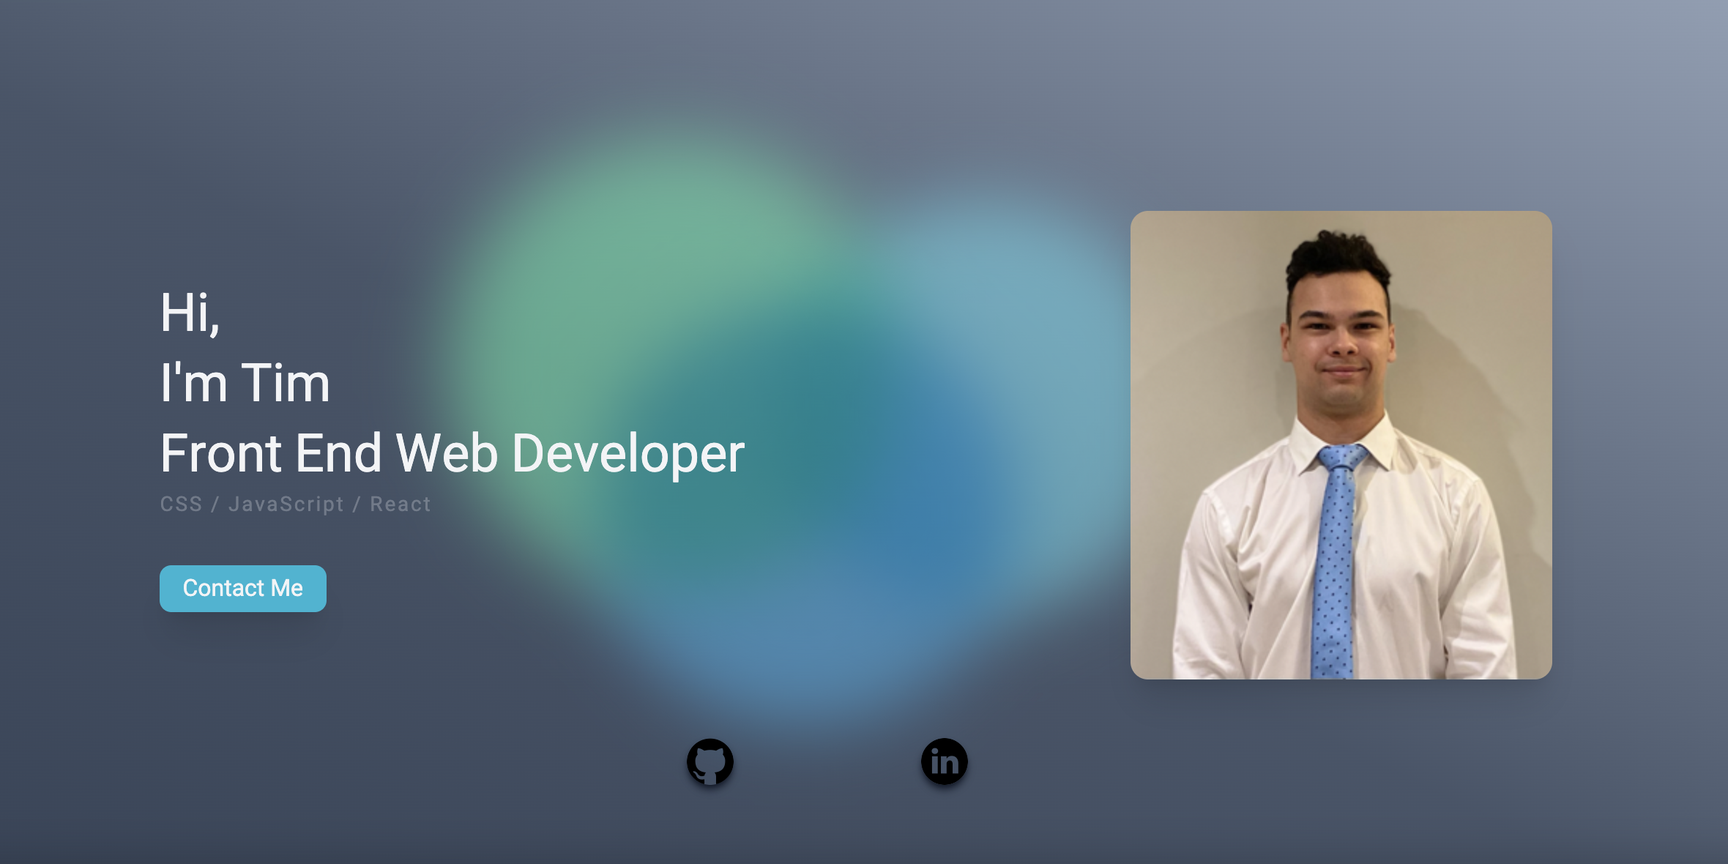
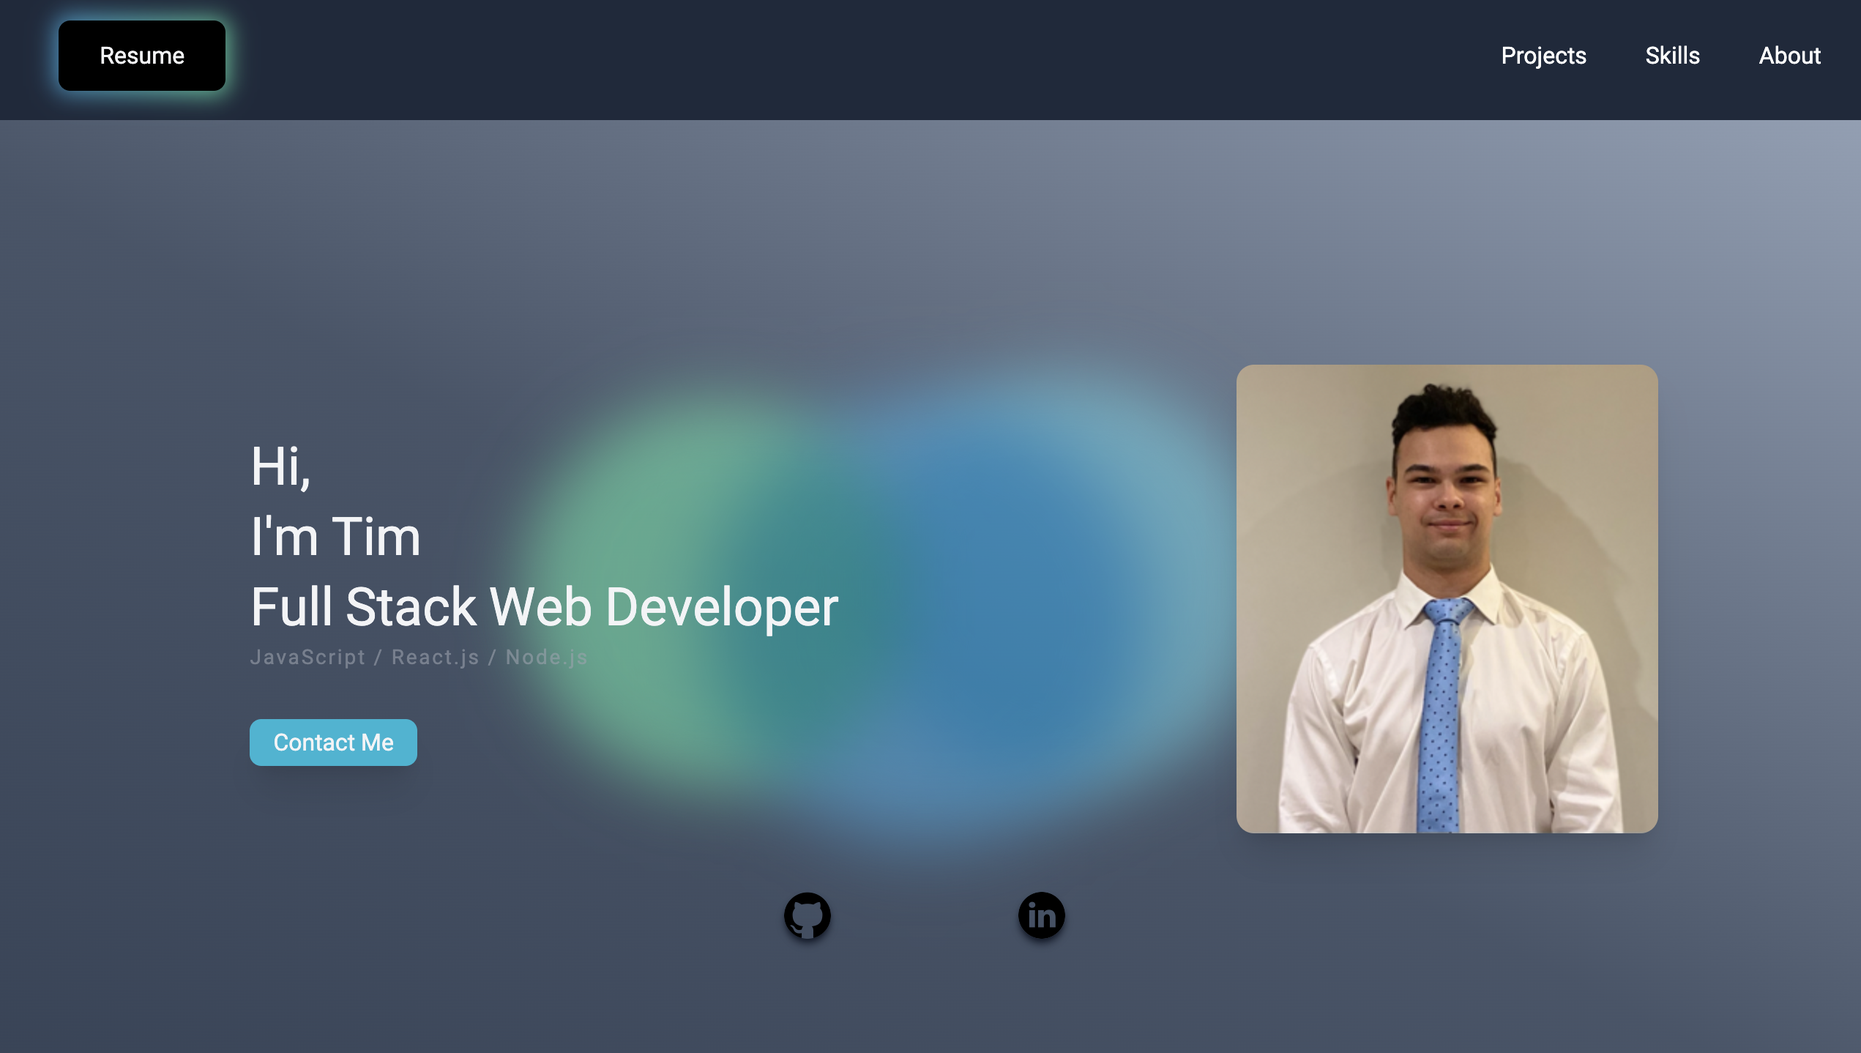
Took out About section, edited projects layout

diff --git a/portfolio/src/Pages/sections/Projects.jsx b/portfolio/src/Pages/sections/Projects.jsx
@@ -5,106 +5,130 @@ const Projects = () => {
 
     return (
         // Projects section start
-        <div id="projects" className='min-h-screen xs:py-36 lg:py-40 bg-gradient-to-tl from-slate-500 via-slate-600 to-slate-700 text-gray-900 flex items-center justify-center relative sm:pt-10'>
+        <div id="projects" className='min-h-screen xs:py-36 lg:py-40 bg-slate-800 text-gray-900 flex items-center justify-center relative sm:pt-10'>
     
             {/* Glass Section Start */}
-            <div className='bg-[#52ACE3] rounded-xl xs:h-[80vh] lg:h-[75vh]  xs:w-9/12 shadow-2xl shadow-blue-300 z-20 bg-opacity-60 backdrop-blur-lg text-gray-100 relative xs:flex xs:items-center xs:justify-center xs:overflow-x-scroll'>
+            <div className='bg-[#52ACE3] rounded-xl xs:h-screen xs:w-[90%] shadow-2xl shadow-blue-300 z-20 bg-opacity-60 backdrop-blur-lg text-gray-100 relative xs:flex xs:items-center xs:justify-center'>
 
-                {/* content start */}
-                <motion.div 
-                initial={{ x: 250 }}
-                whileInView={{ x: 0 }}
-                transition={{ delay: 0.4, duration: 1 }}
-                drag="x"  
-                dragConstraints={{ right: 0, left: -1500 }}
-                className="lg:h-full w-full xs:flex xs:justify-start xs:flex-row xs:items-center xs:container text-center">
+            {/* content start */}
+            <div className="lg:h-full lg:w-full lg:grid lg:gap-4 lg:grid-rows-2 lg:grid-cols-3 text-center">
 
 
                 {/* project 0 start */}
-                <div className='xs:flex xs:items-center xs:justify-center xs:flex-col min-w-max xs:mx-5'>
+                <div className='xs:flex xs:items-center xs:justify-center xs:flex-col min-w-max xs:mx-2'>
                     <div className='xs:my-5 sm:my-0 md:mx-3'>
                         <a href="https://pokemon-api-wheat.vercel.app/" target="_blank" rel='noreferrer'>
                             <motion.img 
                             whileHover={{ scale: 1.1 }}
-                            className='rounded-lg xs:h-32 lg:h-56 hover:shadow-lg hover:shadow-gray-900 transition ease-out duration-300 lg:mb-5' 
+                            className='rounded-lg xs:h-32 lg:h-52 hover:shadow-lg hover:shadow-gray-900 transition ease-out duration-300 lg:mb-5' 
                             src="/pokemonApi.png" 
                             alt="pokemon app" />
                         </a>
                     </div>
-                        <div className='xs:flex xs:items-center xs:justify-center xs:flex-col'>
+                    <div>
+                        <a href="https://github.com/Tcaf351/pokemon-Api" 
+                            className="mt-8 py-1 px-4 rounded-lg shadow-xl text-gray-100 bg-cyan-500 ease-out duration-300 hover:bg-blue-500"
+                            target="_blank" 
+                            rel='noreferrer'>Github</a>
+                    </div>
+                        {/* <div className='xs:flex xs:items-center xs:justify-center xs:flex-col'>
                             <img className='xs:h-6 sm:h-8 lg:h-10 lg:my-1 ' src="/reactLogo.png" alt="react Logo" />
 
                             <img className='xs:h-3 sm:h-4 lg:h-6 my-1 lg:my-1' src="/TailwindLogo.svg" alt="tailwind css logo" />
-                        </div>
+                        </div> */}
                 </div>
                 {/* project 0 end */}
 
                 {/* project 1 start */}
-                <div className='xs:flex xs:items-center xs:justify-center xs:flex-col min-w-max xs:mx-5'>
+                <div className='xs:flex xs:items-center xs:justify-center xs:flex-col min-w-max xs:mx-2'>
                     <div className='xs:my-5 sm:my-0 md:mx-3'>
                         <a href="https://next-js-weather-app-wine.vercel.app/" target="_blank" rel='noreferrer'>
                             <motion.img 
                             whileHover={{ scale: 1.1 }}
-                            className='rounded-lg xs:h-32 lg:h-56 hover:shadow-lg hover:shadow-gray-900 transition ease-out duration-300 lg:mb-5' 
+                            className='rounded-lg xs:h-32 lg:h-52 hover:shadow-lg hover:shadow-gray-900 transition ease-out duration-300 lg:mb-5' 
                             src="/weatherAppNext.png" 
                             alt="next.js weather app" />
                         </a>
                     </div>
-                        <div className='xs:flex xs:items-center xs:justify-center xs:flex-col'>
+                    <div>
+                        <a href="https://github.com/Tcaf351/Next.js-Assignment" 
+                            className="mt-8 py-1 px-4 rounded-lg shadow-xl text-gray-100 bg-cyan-500 ease-out duration-300 hover:bg-blue-500"
+                            target="_blank" 
+                            rel='noreferrer'>Github</a>
+                    </div>
+                        {/* <div className='xs:flex xs:items-center xs:justify-center xs:flex-col'>
                             <img className='xs:h-6 sm:h-8 lg:h-10 lg:my-1 ' src="/nextLogo.svg" alt="react Logo" />
 
                             <img className='xs:h-3 sm:h-4 lg:h-6 my-1 lg:my-1' src="/TailwindLogo.svg" alt="tailwind css logo" />
-                        </div>
+                        </div> */}
                 </div>
                 {/* project 1 end */}
 
                 {/* project 2 start */}
-                <div className='xs:flex xs:items-center xs:justify-center xs:flex-col min-w-max lg:mx-5'>
+                <div className='xs:flex xs:items-center xs:justify-center xs:flex-col min-w-max lg:mx-2'>
                     <div className='xs:my-5 sm:my-0 md:mx-3 '>
                         <a href="http://www.timcafarella.com" target="_blank" rel='noreferrer'>
                             <motion.img 
                             whileHover={{ scale: 1.1 }}
-                            className='rounded-lg xs:h-32 lg:h-56 hover:shadow-lg hover:shadow-gray-900 transition ease-out duration-300 lg:mb-5' 
+                            className='rounded-lg xs:h-32 lg:h-52 hover:shadow-lg hover:shadow-gray-900 transition ease-out duration-300 lg:mb-5' 
                             src="/Portfolio.png" 
                             alt="my portfolio" />
                         </a>
                     </div>
-                        <div className='xs:flex xs:items-center xs:justify-center xs:flex-col'>
+                    <div>
+                        <a href="https://github.com/Tcaf351/Portfolio-React"
+                            className="mt-8 py-1 px-4 rounded-lg shadow-xl text-gray-100 bg-cyan-500 ease-out duration-300 hover:bg-blue-500"
+                            target="_blank" 
+                            rel='noreferrer'>Github</a>
+                    </div>
+                        {/* <div className='xs:flex xs:items-center xs:justify-center xs:flex-col'>
                             <img className='xs:h-6 sm:h-8 lg:h-10 lg:my-1 ' src="/reactLogo.png" alt="react Logo" />
                             <img className='xs:h-3 sm:h-4 lg:h-6 my-1 lg:my-1' src="/TailwindLogo.svg" alt="tailwind css logo" />
-                        </div>
+                        </div> */}
                 </div>
                 {/* project 2 end */}
 
                 {/* project 3 start */}
-                    <div className="xs:w-full xs:flex xs:items-center xs:justify-evenly xs:my-10 sm:my-12 md:justify-center lg:my-8 xs:flex-col  min-w-max">
+                    <div className="xs:w-full xs:flex xs:items-center xs:justify-center xs:my-10 sm:my-12 md:justify-center lg:my-8 xs:flex-col min-w-max">
                         <div className='xs:my-5 sm:my-0 md:mx-3'>
                             <a href="https://weather-app-pi-eight-79.vercel.app/" target="_blank" rel="noreferrer">
-
-                                <motion.img className="xs:h-32 lg:h-56 w-auto rounded-lg hover:shadow-lg hover:shadow-gray-900 transition ease-out duration-300 lg:mb-5" 
+                                <motion.img className="xs:h-32 lg:h-52 w-auto rounded-lg hover:shadow-lg hover:shadow-gray-900 transition ease-out duration-300 lg:mb-5" 
                                         whileHover={{ scale: 1.1 }}
                                         src="/weatherApp.png" 
                                         alt="weather app" /></a>
                         </div>
-                        <div className="md:mx-3 lg:pt-2">
-                            <img className='xs:h-5 sm:h-8 lg:h-10 rounded-lg' src="/javascriptLogo.png" alt="javascript logo" />
+
+                        <div>
+                            <a href="https://github.com/Tcaf351/Weather-App"
+                                className="mt-8 py-1 px-4 rounded-lg shadow-xl text-gray-100 bg-cyan-500 ease-out duration-300 hover:bg-blue-500"
+                                target="_blank" 
+                                rel='noreferrer'>Github</a>
                         </div>
+                        {/* <div className="md:mx-3 lg:pt-2">
+                            <img className='xs:h-5 sm:h-8 lg:h-10 rounded-lg' src="/javascriptLogo.png" alt="javascript logo" />
+                        </div> */}
                     </div>
                 {/* project 3 end */}
 
                 {/* project 4 start */}
-                    <div className="xs:w-full xs:my-2 xs:flex xs:items-center xs:justify-center xs:flex-col min-w-max">
-                        <div className='xs:my-5 xs:px-4'>
+                    <div className="xs:flex xs:items-center xs:justify-center xs:flex-col min-w-max xs:mx-2">
+                        <div className='xs:my-5 sm:my-0 md:mx-3'> 
                             <a href="https://github.com/Tcaf351/starWarsWiki" target="_blank" rel="noreferrer">
                                 <motion.img 
-                                    className="xs:h-28 lg:h-56 w-auto mx-1 rounded-lg hover:shadow-lg hover:shadow-gray-900 transition ease-out duration-300" 
+                                    className="xs:h-32 lg:h-52 w-auto mx-1 rounded-lg hover:shadow-lg hover:shadow-gray-900 transition ease-out duration-300 lg:mb-5"  
                                     whileHover={{ scale: 1.1 }}
                                     src="/starWarsWiki.png" 
                                     alt="star wars wiki app" /></a>
                         </div>
 
+                        <div>
+                            <a href="https://github.com/Tcaf351/starWarsWiki"
+                                className="mt-8 py-1 px-4 rounded-lg shadow-xl text-gray-100 bg-cyan-500 ease-out duration-300 hover:bg-blue-500"
+                                target="_blank" 
+                                rel='noreferrer'>Github</a>
+                        </div>
 
-                        <div className="xs:w-full sm:w-1/2 xs:flex xs:flex-col xs:justify-evenly xs:items-center">
+                        {/* <div className="xs:w-full sm:w-1/2 xs:flex xs:flex-col xs:justify-evenly xs:items-center">
                             <div className='sm:w-1/2 xs:flex xs:items-center xs:justify-around'>
                                 <img className='xs:h-6 sm:h-8 lg:h-10 lg:mx-1' src="/reactLogo.png" alt="react Logo" />
                          
@@ -121,7 +145,7 @@ const Projects = () => {
                                 <img className='xs:h-3 sm:h-4 lg:h-6 lg:mx-1' src="/TailwindLogo.svg" alt="tailwind css logo" />
 
                             </div>
-                        </div>
+                        </div> */}
 
                     </div>
                 {/* project 4 end */}
@@ -132,19 +156,25 @@ const Projects = () => {
                         <div className='md:mx-3'>
                             <a href="https://crypto-api-mocha.vercel.app/" target="_blank" rel="noreferrer">
                                 <motion.img 
-                                className="xs:h-32 lg:h-64 w-auto mx-1 rounded-lg hover:shadow-lg hover:shadow-gray-900 transition ease-out duration-300 lg:mb-5" 
+                                className="xs:h-32 lg:h-52 w-auto mx-1 rounded-lg hover:shadow-lg hover:shadow-gray-900 transition ease-out duration-300 lg:mb-5" 
                                 whileHover={{ scale: 1.1 }}
                                 src="/cryptoApi.png" 
                                 alt="crypto tracker api" /></a>
                         </div>
-                        <div className="xs:flex xs:flex-col xs:justify-center xs:items-center md:mx-3 lg:pt-2">
+                        <div>
+                            <a href="https://github.com/Tcaf351/crypto-api"
+                                className="mt-8 py-1 px-4 rounded-lg shadow-xl text-gray-100 bg-cyan-500 ease-out duration-300 hover:bg-blue-500"
+                                target="_blank" 
+                                rel='noreferrer'>Github</a>
+                        </div>
+                        {/* <div className="xs:flex xs:flex-col xs:justify-center xs:items-center md:mx-3 lg:pt-2">
                             <img className='xs:h-6 sm:h-8 lg:h-10 lg:my-1' src="/reactLogo.png" alt="react Logo" />
                             <img className='xs:h-3 sm:h-4 lg:h-6 my-1 lg:my-1' src="/TailwindLogo.svg" alt="tailwind css logo" />
-                        </div>
+                        </div> */}
                     </div>
                 {/* project 5 end */}
-                </motion.div>
-                {/* content end */} 
+            </div>
+            {/* content end */} 
 
             </div>
             {/* Glass Section End */}
@@ -159,11 +189,11 @@ const Projects = () => {
                 {/* top left corner of glass */}
 
                 {/* circle top right side start */}
-                <div className='bg-[#5BFDB5] h-60 w-60 rounded-full absolute xs:right-6 md:right-16 lg:right-20 xl:right-24 2xl:right-40 4xl:right-48 6xl:right-64 7xl:right-80 xs:top-44 z-10'></div>
+                <div className='bg-[#5BFDB5] h-60 w-60 rounded-full absolute xs:right-6 md:right-20 lg:right-24 xl:right-4 2xl:right-40 4xl:right-48 6xl:right-64 7xl:right-80 xs:top-44 z-10'></div>
                 {/* circle top right side end */}
 
                 {/* circle top right side start */}
-                <div className='bg-[#5B95FD] h-40 w-40 rounded-full absolute xs:left-4 md:left-12 lg:left-20 xl:left-28 2xl:left-44 4xl:left-56 6xl:left-72 7xl:left-96 xs:bottom-32 md:bottom-56 z-10'></div>
+                <div className='bg-[#5B95FD] h-40 w-40 rounded-full absolute xs:left-4 md:left-12 lg:left-32 xl:left-2 2xl:left-44 4xl:left-56 6xl:left-72 7xl:left-96 xs:bottom-32 md:bottom-56 z-10'></div>
                 {/* circle top right side end */}
 
         </div>

diff --git a/portfolio/src/Pages/sections/About.jsx b/portfolio/src/Pages/sections/About.jsx
@@ -1,57 +1,57 @@
-// packages
-import { motion } from 'framer-motion';
+// // packages
+// import { motion } from 'framer-motion';
 
-const About = () => {
+// const About = () => {
 
-    return ( 
-        <div id="about" className='min-h-screen xs:py-36 lg:py-40 bg-gradient-to-tl from-slate-500 via-slate-600 to-slate-700 flex items-center justify-center relative text-gray-100'>
+//     return ( 
+//         <div id="about" className='min-h-screen xs:py-36 lg:py-40 bg-gradient-to-tl from-slate-500 via-slate-600 to-slate-700 flex items-center justify-center relative text-gray-100'>
     
-            {/* glass panel start */}
-            <div className='bg-[#111928] rounded-xl xs:h-[80vh] w-9/12 xs:p-6 shadow-2xl shadow-cyan-800 z-20 bg-opacity-60 backdrop-blur-md flex justify-center flex-col text-center lg:mt-8'>
+//             {/* glass panel start */}
+//             <div className='bg-[#111928] rounded-xl xs:h-[80vh] w-9/12 xs:p-6 shadow-2xl shadow-cyan-800 z-20 bg-opacity-60 backdrop-blur-md flex justify-center flex-col text-center lg:mt-8'>
             
-            <motion.div
-            initial={{ opacity: 0 }}
-            whileInView={{ opacity: 1 }}
-            transition={{ delay: 0.5 }}
-            >
-                <div className="2xl:my-10">
-                    <p className='xs:text-xs sm:text-md xs:pt-5 lg:text-lg'>My name is Tim Cafarella and I began my journey in web development in early 2020. I came across a video of someone building a website for a YouTuber I watched frequently. <br /> 
-                    I then began watching more videos about coding and I was instantly mesmorised about the endless possibilities associated with coding. It was at this point that I knew web development was the next chapter for my journey.</p>
-                </div>
+//             <motion.div
+//             initial={{ opacity: 0 }}
+//             whileInView={{ opacity: 1 }}
+//             transition={{ delay: 0.5 }}
+//             >
+//                 <div className="2xl:my-10">
+//                     <p className='xs:text-xs sm:text-md xs:pt-5 lg:text-lg'>My name is Tim Cafarella and I began my journey in web development in early 2020. I came across a video of someone building a website for a YouTuber I watched frequently. <br /> 
+//                     I then began watching more videos about coding and I was instantly mesmorised about the endless possibilities associated with coding. It was at this point that I knew web development was the next chapter for my journey.</p>
+//                 </div>
 
-                <div className="2xl:my-10">
-                    <p className='xs:text-xs sm:text-md lg:text-lg'>I am currently looking for a Graduate Position in Web Development or a Front End Developer position to take my skills and abilities to the next level, in order to help your company grow.</p>
-                </div> 
+//                 <div className="2xl:my-10">
+//                     <p className='xs:text-xs sm:text-md lg:text-lg'>I am currently looking for a Graduate Position in Web Development or a Front End Developer position to take my skills and abilities to the next level, in order to help your company grow.</p>
+//                 </div> 
     
-                <div className="2xl:my-10">
-                    <p className='xs:text-xs sm:text-md lg:text-lg my-6'>I have completed a certificate IV of Information Technology (Web Development).</p>
-                    <p className="xs:text-xs sm:text-md lg:text-lg my-6">I have completed a Diploma of Information Technology (Front End Web Development) with a Diploma of Information Technology (Back End Web Development).</p>
-                </div>  
-            </motion.div>    
+//                 <div className="2xl:my-10">
+//                     <p className='xs:text-xs sm:text-md lg:text-lg my-6'>I have completed a certificate IV of Information Technology (Web Development).</p>
+//                     <p className="xs:text-xs sm:text-md lg:text-lg my-6">I have completed a Diploma of Information Technology (Front End Web Development) with a Diploma of Information Technology (Back End Web Development).</p>
+//                 </div>  
+//             </motion.div>    
                 
-            </div>
-            {/* glass panel end */}
+//             </div>
+//             {/* glass panel end */}
                 
-            {/* top left corner of glass */}
-            <motion.h1
-            whileHover={{ opacity: 0.5 }}
-            className='xs:text-5xl sm:text-7xl lg:text-9xl text-cyan-300 opacity-20 absolute xs:top-20 md:top-1 lg:top-20 xl:left-3 2xl:left-14 4xl:left-20 5xl:left-28 6xl:left-40 6xl:top-12 7xl:left-56 z-10'>About</motion.h1>
-            {/* top left corner of glass */}
+//             {/* top left corner of glass */}
+//             <motion.h1
+//             whileHover={{ opacity: 0.5 }}
+//             className='xs:text-5xl sm:text-7xl lg:text-9xl text-cyan-300 opacity-20 absolute xs:top-20 md:top-1 lg:top-20 xl:left-3 2xl:left-14 4xl:left-20 5xl:left-28 6xl:left-40 6xl:top-12 7xl:left-56 z-10'>About</motion.h1>
+//             {/* top left corner of glass */}
     
-            {/* circle bottom right side start */}
-            <div className='bg-cyan-300 h-64 w-64 rounded-full absolute xs:right-5 xs:bottom-8 lg:right-8 lg:bottom-10 xl:right-20 2xl:right-24 3xl:right-36 4xl:right-44 5xl:right-52 6xl:right-60 7xl:right-72 z-10'></div>
-            {/* circle bottom right side end */}
+//             {/* circle bottom right side start */}
+//             <div className='bg-cyan-300 h-64 w-64 rounded-full absolute xs:right-5 xs:bottom-8 lg:right-8 lg:bottom-10 xl:right-20 2xl:right-24 3xl:right-36 4xl:right-44 5xl:right-52 6xl:right-60 7xl:right-72 z-10'></div>
+//             {/* circle bottom right side end */}
     
-            {/* circle middle left side start */}
-            <div className='bg-sky-400 h-36 w-36 rounded-full absolute xs:left-4 lg:left-14 xl:left-24 2xl:left-32 3xl:left-40 4xl:left-48 5xl:left-56 6xl:left-72 7xl:left-80 z-10'></div>
-            {/* circle middle left side end */}
+//             {/* circle middle left side start */}
+//             <div className='bg-sky-400 h-36 w-36 rounded-full absolute xs:left-4 lg:left-14 xl:left-24 2xl:left-32 3xl:left-40 4xl:left-48 5xl:left-56 6xl:left-72 7xl:left-80 z-10'></div>
+//             {/* circle middle left side end */}
     
-            {/* circle top right side start */}
-            <div className='bg-slate-500 h-40 w-40 rounded-full absolute sm:right-12 lg:right-20 xl:right-32 2xl:right-36 3xl:right-44 4xl:right-52 5xl:right-60 6xl:right-72 7xl:right-80 top-36 z-10'></div>
-            {/* circle top right side end */}
+//             {/* circle top right side start */}
+//             <div className='bg-slate-500 h-40 w-40 rounded-full absolute sm:right-12 lg:right-20 xl:right-32 2xl:right-36 3xl:right-44 4xl:right-52 5xl:right-60 6xl:right-72 7xl:right-80 top-36 z-10'></div>
+//             {/* circle top right side end */}
     
-        </div>
-     );
-}
+//         </div>
+//      );
+// }
  
-export default About;
+// export default About;

diff --git a/portfolio/src/Pages/sections/Skills.jsx b/portfolio/src/Pages/sections/Skills.jsx
@@ -3,7 +3,7 @@ import { motion } from 'framer-motion';
 
 const Skills= () => {
     return ( 
-        <div id="skills" className='min-h-screen xs:py-36 lg:py-40 lg:pb-20 bg-gradient-to-tr from-slate-700 via-slate-600 to-slate-500 flex items-center justify-center relative text-gray-100'>
+        <div id="skills" className='min-h-screen xs:py-36 lg:py-40 lg:pb-20 bg-gradient-to-tr from-slate-700 via-slate-600 to-slate-400 flex items-center justify-center relative text-gray-100'>
     
    
 
@@ -15,7 +15,7 @@ const Skills= () => {
                
 
             {/* glass panel start */}
-                <div className='bg-slate-500 rounded-xl lg:h-[80vh] w-9/12 shadow-2xl shadow-cyan-400 z-20 bg-opacity-40 backdrop-blur-md grid xs:grid-cols-1 text-center lg:mt-8'>
+                <div className='bg-slate-500 rounded-xl lg:h-[80vh] xs:w-[90%] shadow-2xl shadow-cyan-400 z-20 bg-opacity-40 backdrop-blur-md grid xs:grid-cols-1 text-center lg:mt-8'>
                 
                     <motion.div 
                     initial={{ opacity: 0 }}

diff --git a/portfolio/src/Pages/Home.jsx b/portfolio/src/Pages/Home.jsx
@@ -1,7 +1,7 @@
 import Hero from './sections/Hero';
 import Projects from './sections/Projects';
 import Skills from './sections/Skills';
-import About from './sections/About';
+// import About from './sections/About';
 
 
 const Home = () => {
@@ -14,7 +14,7 @@ const Home = () => {
 
             <Skills title="skills" />
 
-            <About title="about" />
+            {/* <About title="about" /> */}
         </div>
     );
 }
